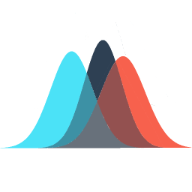
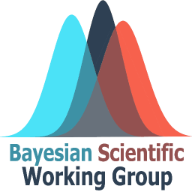
Update navbar

diff --git a/docs/index.html b/docs/index.html
@@ -69,6 +69,9 @@ ul.task-list li input[type="checkbox"] {
     <nav class="navbar navbar-expand-lg navbar-dark ">
       <div class="navbar-container container-fluid">
       <div class="navbar-brand-container">
+    <a href="./index.html" class="navbar-brand navbar-brand-logo">
+    <img src="./logo_cropped.png" alt="" class="navbar-logo">
+    </a>
     <a class="navbar-brand" href="./index.html">
     <span class="navbar-title">Bayesian Scientific Working Group</span>
     </a>
@@ -151,7 +154,7 @@ ul.task-list li input[type="checkbox"] {
 <li><strong>Advisors:</strong> Karen Price; Amy Xia; Fanni Natanegara; Freda Cooner</li>
 <li><strong>Co-Secretaries:</strong> Spencer Woody; Hao Sun</li>
 <li><strong>KOL Lecture Series Organizers:</strong> Haijun Ma; Mathangi Gopalakrishnan; Freda Cooner</li>
-<li><strong>Publication Chairs:</strong> (Position open)</li>
+<li><strong>Publication Chair:</strong> (Position open)</li>
 <li><strong>Webmaster:</strong> Melvin Munsaka; Spencer Woody; Haijun Ma</li>
 </ul>
 <!-- $\int_{-\infty}^{\infty} \exp(-x^2)dx=2\pi$ -->

diff --git a/docs/about.html b/docs/about.html
@@ -70,6 +70,9 @@ ul.task-list li input[type="checkbox"] {
     <nav class="navbar navbar-expand-lg navbar-dark ">
       <div class="navbar-container container-fluid">
       <div class="navbar-brand-container">
+    <a href="./index.html" class="navbar-brand navbar-brand-logo">
+    <img src="./logo_cropped.png" alt="" class="navbar-logo">
+    </a>
     <a class="navbar-brand" href="./index.html">
     <span class="navbar-title">Bayesian Scientific Working Group</span>
     </a>

diff --git a/docs/styles.css b/docs/styles.css
@@ -1,1 +1,8 @@
 /* css styles */
+.navbar-logo {
+  max-height: 50px;
+}
+
+.navbar {
+  max-height: 60px;
+}
